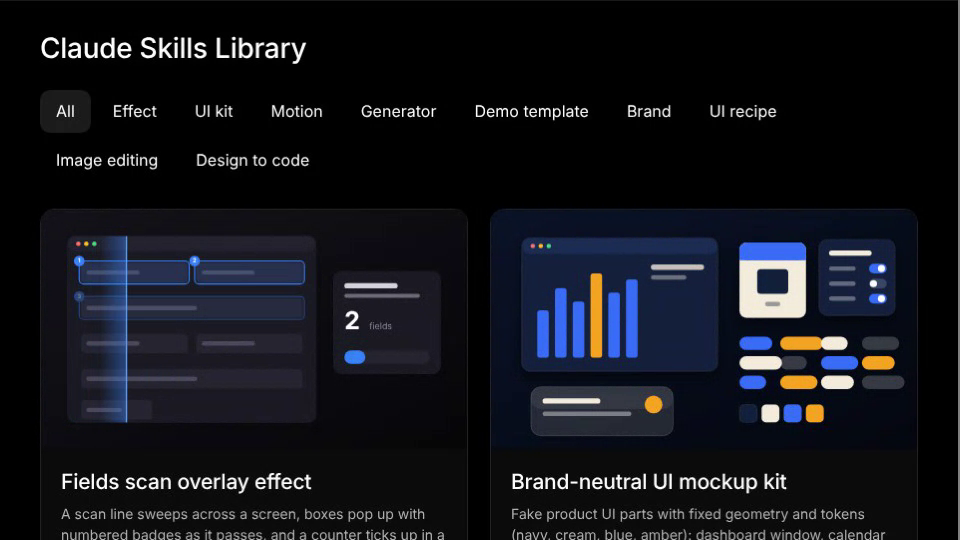
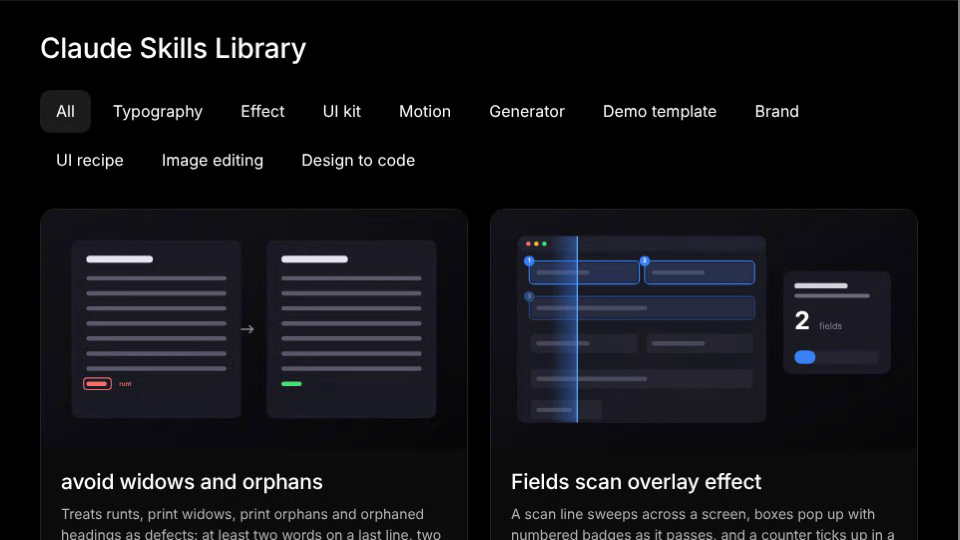
Skills Library: add avoid widows and orphans (#496)
Claude-Session: https://claude.ai/code/session_01AHeBdzfwQsZW7SD9XQB6B1

diff --git a/skills-library/index.html b/skills-library/index.html
@@ -57,6 +57,14 @@ var ICON={
 };
 var SKILLS=[
   {
+    title:'avoid widows and orphans',
+    desc:'Treats runts, print widows, print orphans and orphaned headings as defects: at least two words on a last line, two lines kept together, headings kept with text, plus fixes for CSS, p5/canvas, Figma, Word, PDF and slides.',
+    category:'Typography', cIcon:'design',
+    use:'Any text layout or render', uIcon:'image',
+    art:'art/avoid-widows-and-orphans.svg',
+    alt:'A paragraph with a one-word last line marked as a runt beside the same paragraph rebalanced with a longer last line and a green check'
+  },
+  {
     title:'Fields scan overlay effect',
     desc:'A scan line sweeps across a screen, boxes pop up with numbered badges as it passes, and a counter ticks up in a step card. Reusable for any "the agent read your screen" scene.',
     category:'Effect', cIcon:'motion',
